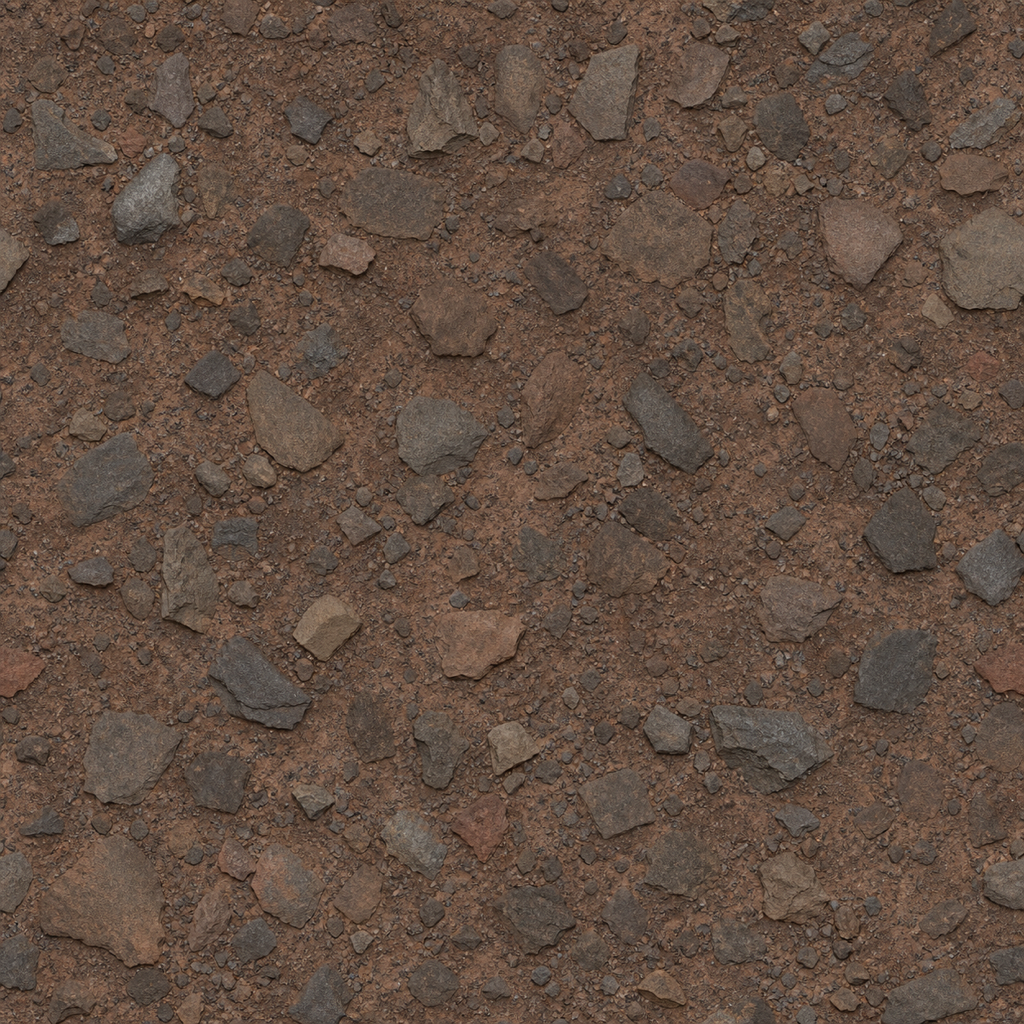
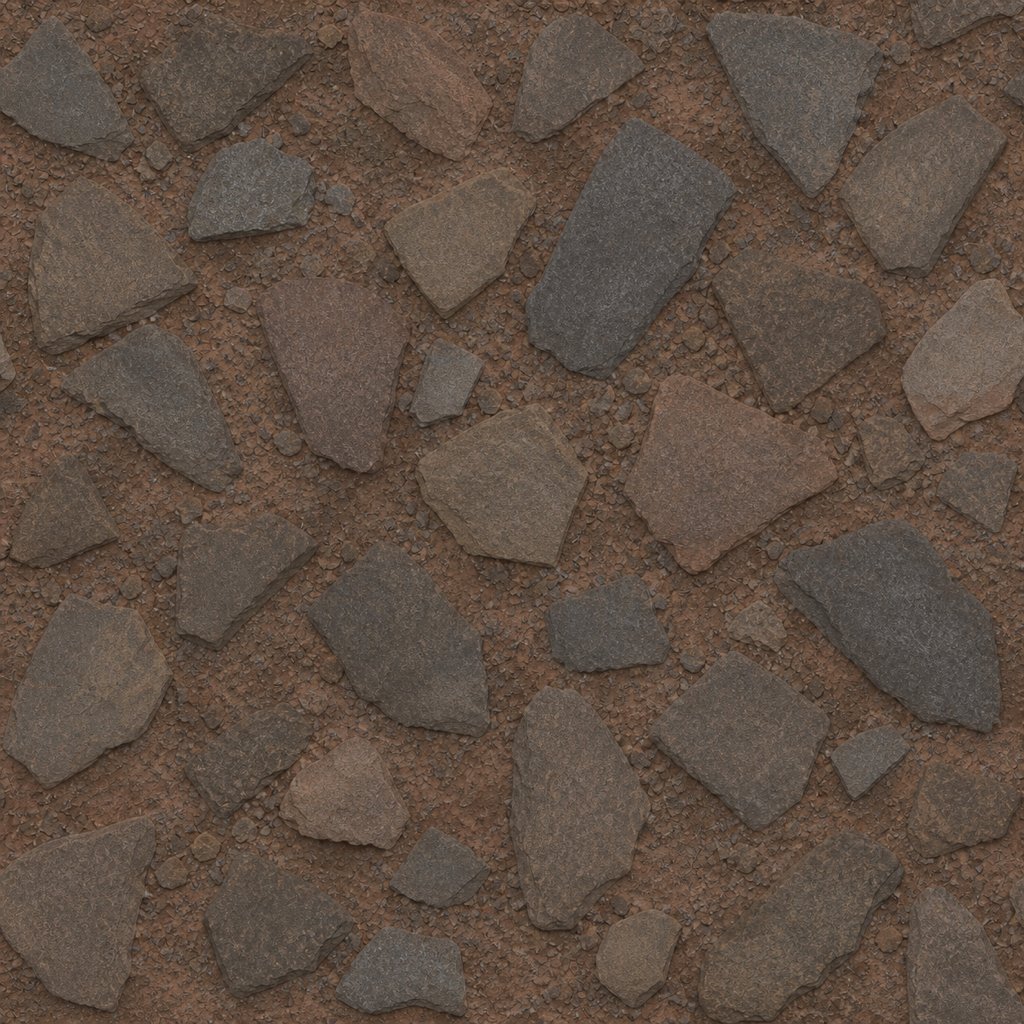
Enlarge and reveal mixed rocky ground

Changed region(s): [[0.0, 0.0, 1.0, 1.0]]

diff --git a/Assets/_Project/Scripts/Editor/TopDown3D/TopDown3DPrototypeBuilder.cs b/Assets/_Project/Scripts/Editor/TopDown3D/TopDown3DPrototypeBuilder.cs
@@ -38,11 +38,12 @@ namespace BooterBigArm.Editor
         public const float TerrainBaseMetersPerTile = 3f;
         public const float TerrainSweptSandMetersPerTile = 4f;
         public const float TerrainGravelMetersPerTile = 2.25f;
-        public const float TerrainRockyMetersPerTile = 3.5f;
+        public const float TerrainRockyMetersPerTile = 4.75f;
         public const float TerrainPatchFrequency = 0.035f;
         public const float TerrainSweptSandThreshold = 0.64f;
         public const float TerrainGravelThreshold = 0.66f;
-        public const float TerrainRockyThreshold = 0.68f;
+        public const float TerrainRockyThreshold = 0.62f;
+        public const float TerrainRockyStrength = 0.96f;
         public const float TerrainPatchBlendWidth = 0.11f;
         public const float TerrainSmoothness = 0.18f;
         public const float RockMetersPerTile = 0.85f;
@@ -206,6 +207,7 @@ namespace BooterBigArm.Editor
             changed |= SetFloatIfNeeded(material, "_SweptSandThreshold", TerrainSweptSandThreshold);
             changed |= SetFloatIfNeeded(material, "_GravelThreshold", TerrainGravelThreshold);
             changed |= SetFloatIfNeeded(material, "_RockyThreshold", TerrainRockyThreshold);
+            changed |= SetFloatIfNeeded(material, "_RockyStrength", TerrainRockyStrength);
             changed |= SetFloatIfNeeded(material, "_BlendWidth", TerrainPatchBlendWidth);
             changed |= SetFloatIfNeeded(material, "_Smoothness", TerrainSmoothness);
 
